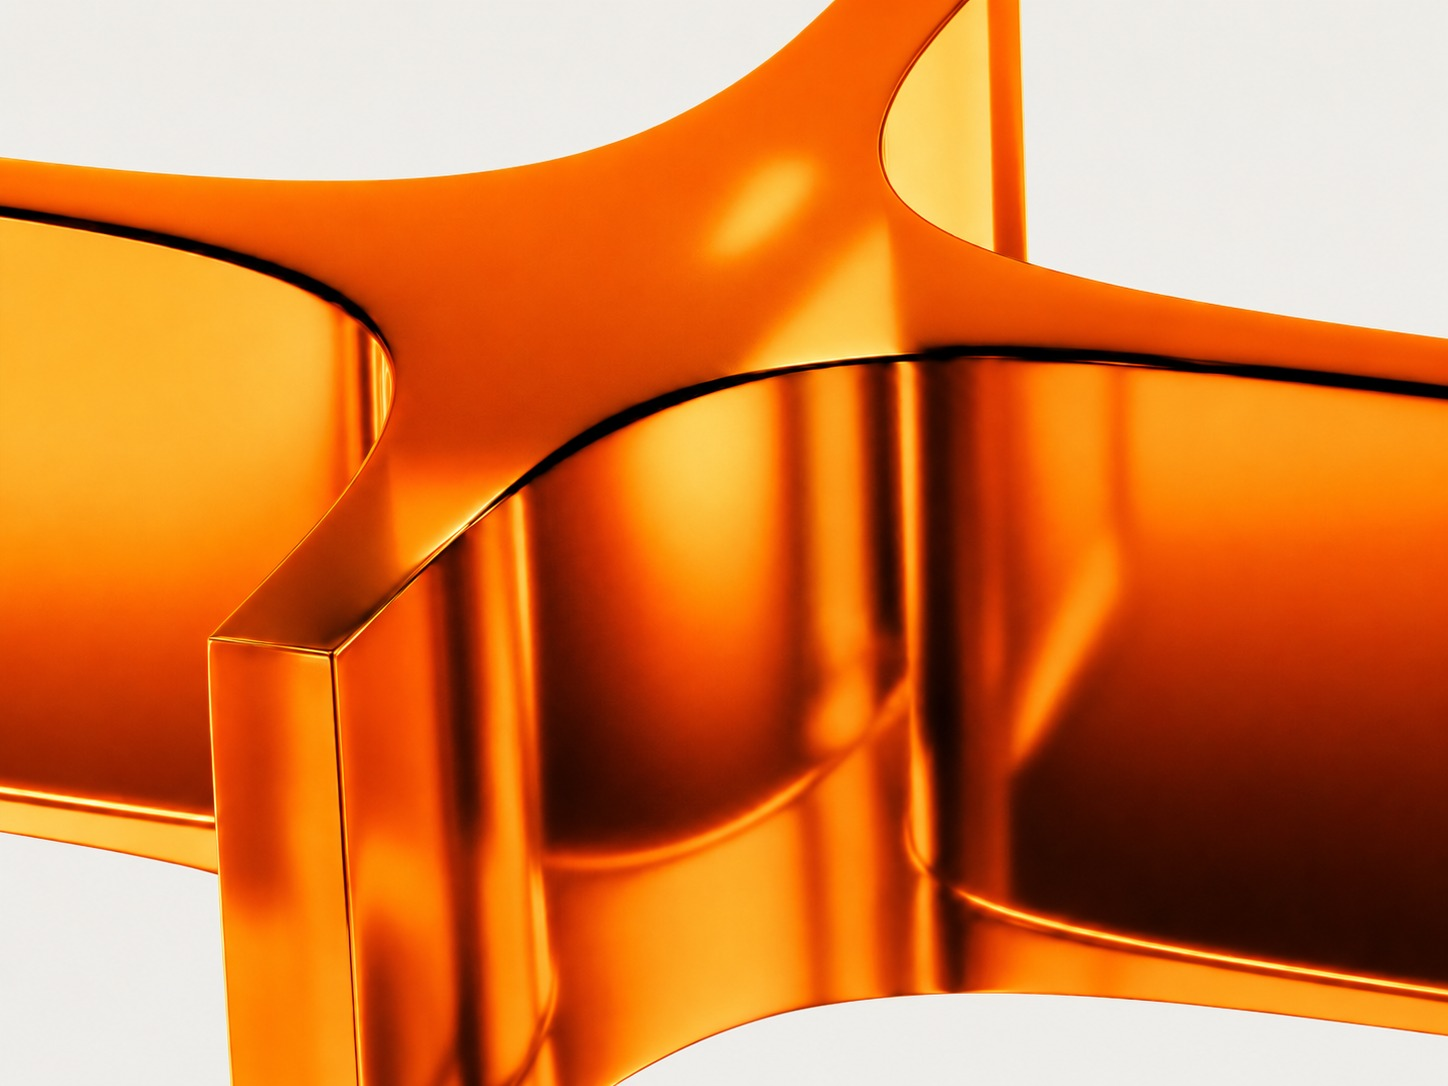
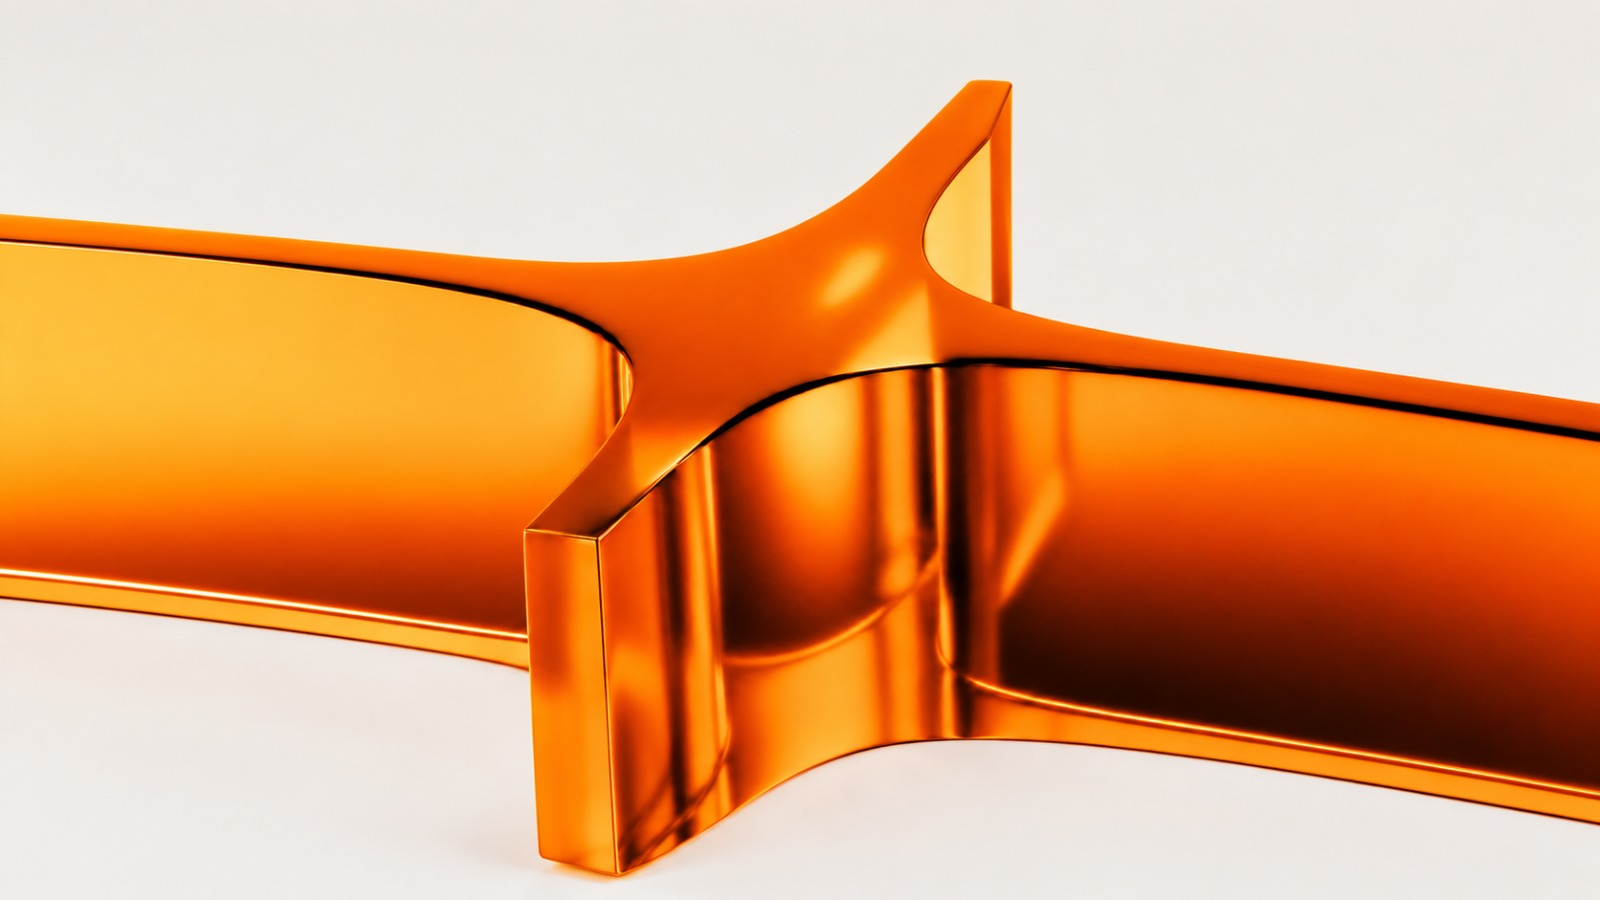
Section 4 CTA: stronger center dim + text-shadow so text is visible over the bright image

diff --git a/styles.css b/styles.css
@@ -500,15 +500,15 @@ html{
   left:6vw;
   right:6vw;
   background:
-    radial-gradient(75% 65% at 50% 54%, rgba(8,4,2,.34) 0%, transparent 74%),  /* soft dim behind text only */
+    radial-gradient(68% 58% at 50% 52%, rgba(6,3,1,.66) 0%, rgba(6,3,1,.3) 46%, transparent 76%),  /* dim behind text, edges stay bright */
     url('bag_1.jpeg') center / cover no-repeat;
-  filter:saturate(1.18) brightness(1.1);    /* bright & glowy */
+  filter:saturate(1.18) brightness(1.05);    /* bright & glowy edges */
   z-index:0;
 }
 .cta-section > *{ position:relative; z-index:1; }
-.cta-title{ text-shadow:0 2px 26px rgba(0,0,0,.5); }
-.cta-sub{ text-shadow:0 1px 16px rgba(0,0,0,.5); }
-.cta-eyebrow{ text-shadow:0 1px 12px rgba(0,0,0,.5); }
+.cta-title{ text-shadow:0 2px 30px rgba(0,0,0,.75); }
+.cta-sub{ text-shadow:0 1px 18px rgba(0,0,0,.7); }
+.cta-eyebrow{ text-shadow:0 1px 14px rgba(0,0,0,.65); }
 .cta-eyebrow{
   font-family:var(--mono);
   font-size:12px;